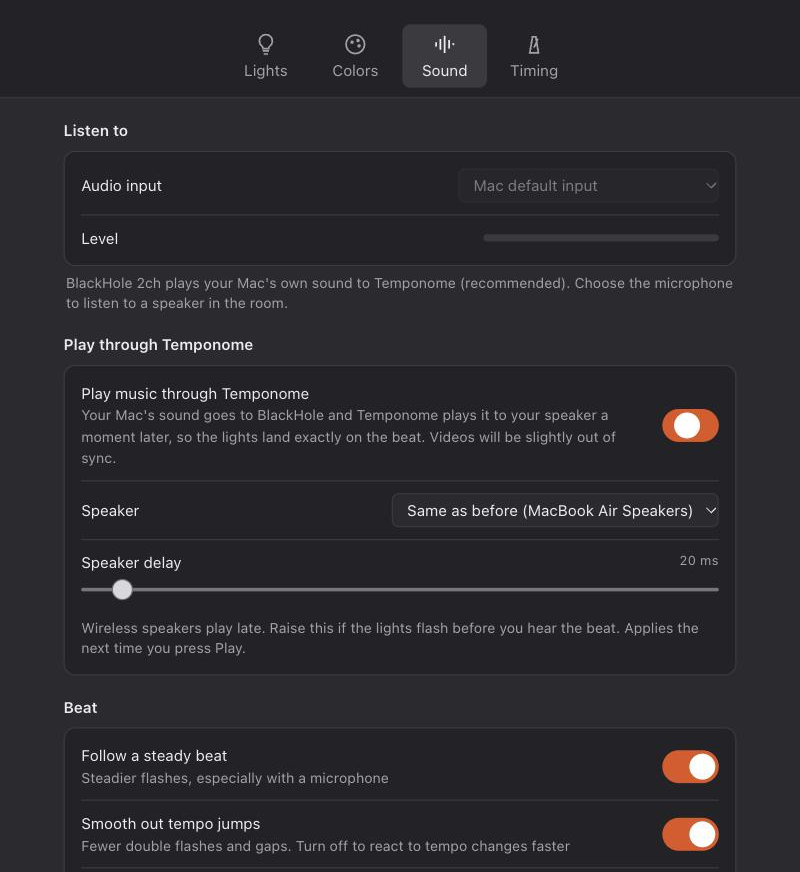
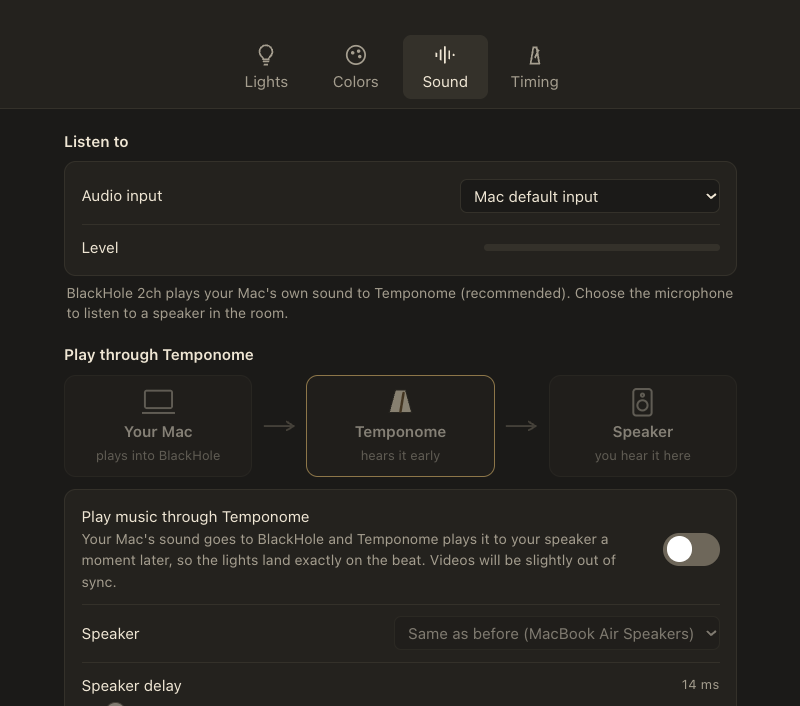
README: the new look, with new screenshots

diff --git a/README.md b/README.md
@@ -3,11 +3,11 @@
 Makes your Tapo and Govee lights pulse and change color with your music, on a Mac.
 
 <p align="center">
-  <img src="docs/screenshots/main-dark.png" width="49%" alt="Temponome playing in dark mode: a cream VU meter shows 110 BPM, three light lamps glow below it, with a stop key, a together or chase toggle, amber brightness steps and a pulse fader">
-  <img src="docs/screenshots/main-light.png" width="49%" alt="The same window with the silver panel used in light mode">
+  <img src="docs/screenshots/main-dark.png" width="49%" alt="Temponome playing in dark mode: 120 BPM at the top, three lamp shades filled with each light's live color and brightness, labeled Bass bar, On the beat and Pitch to color, with a stop key, brightness and pulse sliders">
+  <img src="docs/screenshots/main-light.png" width="49%" alt="The same window in light mode">
 </p>
 
-The main window looks like a small piece of studio gear. Press Play: the meter's needle points at the song's tempo and kicks on every beat, and each of your lights has its own lamp glowing in the color it is showing.
+The main window is a little stage of lamps, drawn after the logo: each of your lights is a lamp shade that fills up and glows exactly as the real bulb does, with what it follows written underneath. The tempo sits at the top, next to a tiny metronome whose arm ticks on every beat.
 
 ## Install
 1. Download **Temponome.dmg** from the [latest release](https://github.com/petroskon18/temponome/releases/latest) (Apple silicon Macs), open it and drag **Temponome** onto the **Applications** folder (choose Replace if asked).
@@ -15,7 +15,7 @@ The main window looks like a small piece of studio gear. Press Play: the meter's
 3. For your Mac's own sound, install **BlackHole 2ch** (free) from https://existential.audio/blackhole/. You can use the Mac's microphone instead.
 
 ## Use
-- Press **Play**. The meter shows the tempo and kicks on each beat, and each lamp glows in the color its light is showing.
+- Press **Play**. Each lamp shade fills and glows the way its light does, and the tempo shows at the top.
 - **Brightness** and **Pulse** are on the main window. Everything else is in **Settings** (⌘, or the gear): find your lights, colors, sound input, and timing calibration with the camera.
 - **Stop** puts each light back the way it looked before you pressed Play.
 - Your lights, colors and timing from the old version carry over automatically. Settings live in `~/Library/Application Support/Temponome/`.
@@ -26,7 +26,7 @@ The main window looks like a small piece of studio gear. Press Play: the meter's
 - **One drum per light.** In Settings → Lights, each light can follow the beat, or just one drum: the **kick**, the **snare** or the **hi-hats**. For example, one lamp can thump with the kick while another flickers with the hi-hats. The snare choice may also catch guitar or voice, which sit in the same range. Drums land best with *Play music through Temponome* on (below).
 - **Sound bars.** In Settings → Lights, set one light to **Bass level**, another to **Middle level** and a third to **Treble level**. Each grows brighter as its part of the sound gets louder, so together they work like the bars of an equalizer.
 - **Pitch to color.** A light set to **Pitch to color** turns red when the bass takes over, green for voices and guitars, and blue for cymbals, and its brightness follows the loudness.
-- **Together or Chase.** On the main window, lights that follow the beat can flash together or take turns.
+- **Together or Chase.** On the main window, lights set to *On the beat* can flash together or take turns. The switch shows when two or more lights follow the beat.
 - **Extras** (Settings → Colors):
   - **Stronger flash on the first beat of each bar.** Beat 1 flashes full and beats 2–4 flash softer, so you can feel where each bar starts.
   - **Turn the colors around the wheel.** Every 4 or 8 bars, both of your colors move a step around the color wheel, so a long song keeps changing.
@@ -48,12 +48,12 @@ Even with it off, Temponome now keeps a steadier beat: it ignores brief jumps in
 
 | Lights | Colors | Timing |
 |---|---|---|
-| <img src="docs/screenshots/settings-lights.png" alt="Lights tab: three lights, each with what it reacts to (kick drum, hi-hats, on the beat) and its color choice, plus Find my lights"> | <img src="docs/screenshots/settings-colors.png" alt="Colors tab: On each beat set to Color, above a segmented color wheel with calm and energetic markers"> | <img src="docs/screenshots/settings-timing.png" alt="Timing tab: camera calibration and a fine-tune slider from Earlier to Later"> |
-| Find your lights on Wi-Fi, pick which to use, and choose what each one reacts to. | Choose whether a beat changes brightness or color, and pick a calm and an energetic color on the wheel; Preview shows it on your lights. With Brightness, a strip shows the color at every tempo. | Measure each light's delay with the Mac's camera, so flashes land on the beat. |
+| <img src="docs/screenshots/settings-lights.png" alt="Lights tab: three lights, each with grouped buttons for what it reacts to (On the beat, Drum, Bar, Pitch to color) and its color choice"> | <img src="docs/screenshots/settings-colors.png" alt="Colors tab: two picture buttons for what each beat changes, and three illustrated cards for the extras"> | <img src="docs/screenshots/settings-timing.png" alt="Timing tab: camera calibration and a fine-tune slider from Earlier to Later"> |
+| Find your lights on Wi-Fi and choose what each one reacts to: the beat, one drum, a sound bar, or pitch to color. | Choose whether a beat flashes brighter or jumps in color, switch on the extras, and pick a calm and an energetic color on the wheel. | Measure each light's delay with the Mac's camera, so flashes land on the beat. |
 
 | Sound |   |
 |---|---|
-| <img src="docs/screenshots/settings-sound.png" width="400" alt="Sound tab: audio input, the Play music through Temponome switch with a speaker picker and speaker delay slider, and the beat switches"> | Choose what Temponome listens to, turn on **Play music through Temponome** with your speaker and its delay, and set how the beat is followed. |
+| <img src="docs/screenshots/settings-sound.png" width="400" alt="Sound tab: audio input, then a small diagram from your Mac through Temponome to the speaker above the Play music through Temponome switch, speaker picker and speaker delay"> | Choose what Temponome listens to and turn on **Play music through Temponome**; the diagram shows how the sound travels. Then pick your speaker and its delay, and set how the beat is followed. |
 
 ## Older way to run it
 Double-click `Start Tapo Music.command` (needs Python). Don't run it at the same time as the app.

diff --git a/CLAUDE.md b/CLAUDE.md
@@ -257,6 +257,7 @@ anything they must do on their Mac, and keep the double-click launcher working.
   sample-accurate. The goal is to feel on-beat.
 
 ## Not verified on real hardware yet
+- The Stage of lamps look tried by the owner on 2026-11-26 (test build) and approved for 1.7.0.
 - Sound bars and pitch to color confirmed by the owner on 2026-11-25 (test build, real lights).
 - Color pulse and one-drum-per-light confirmed working by the owner on 2026-11-24 (test
   build, real lights).
